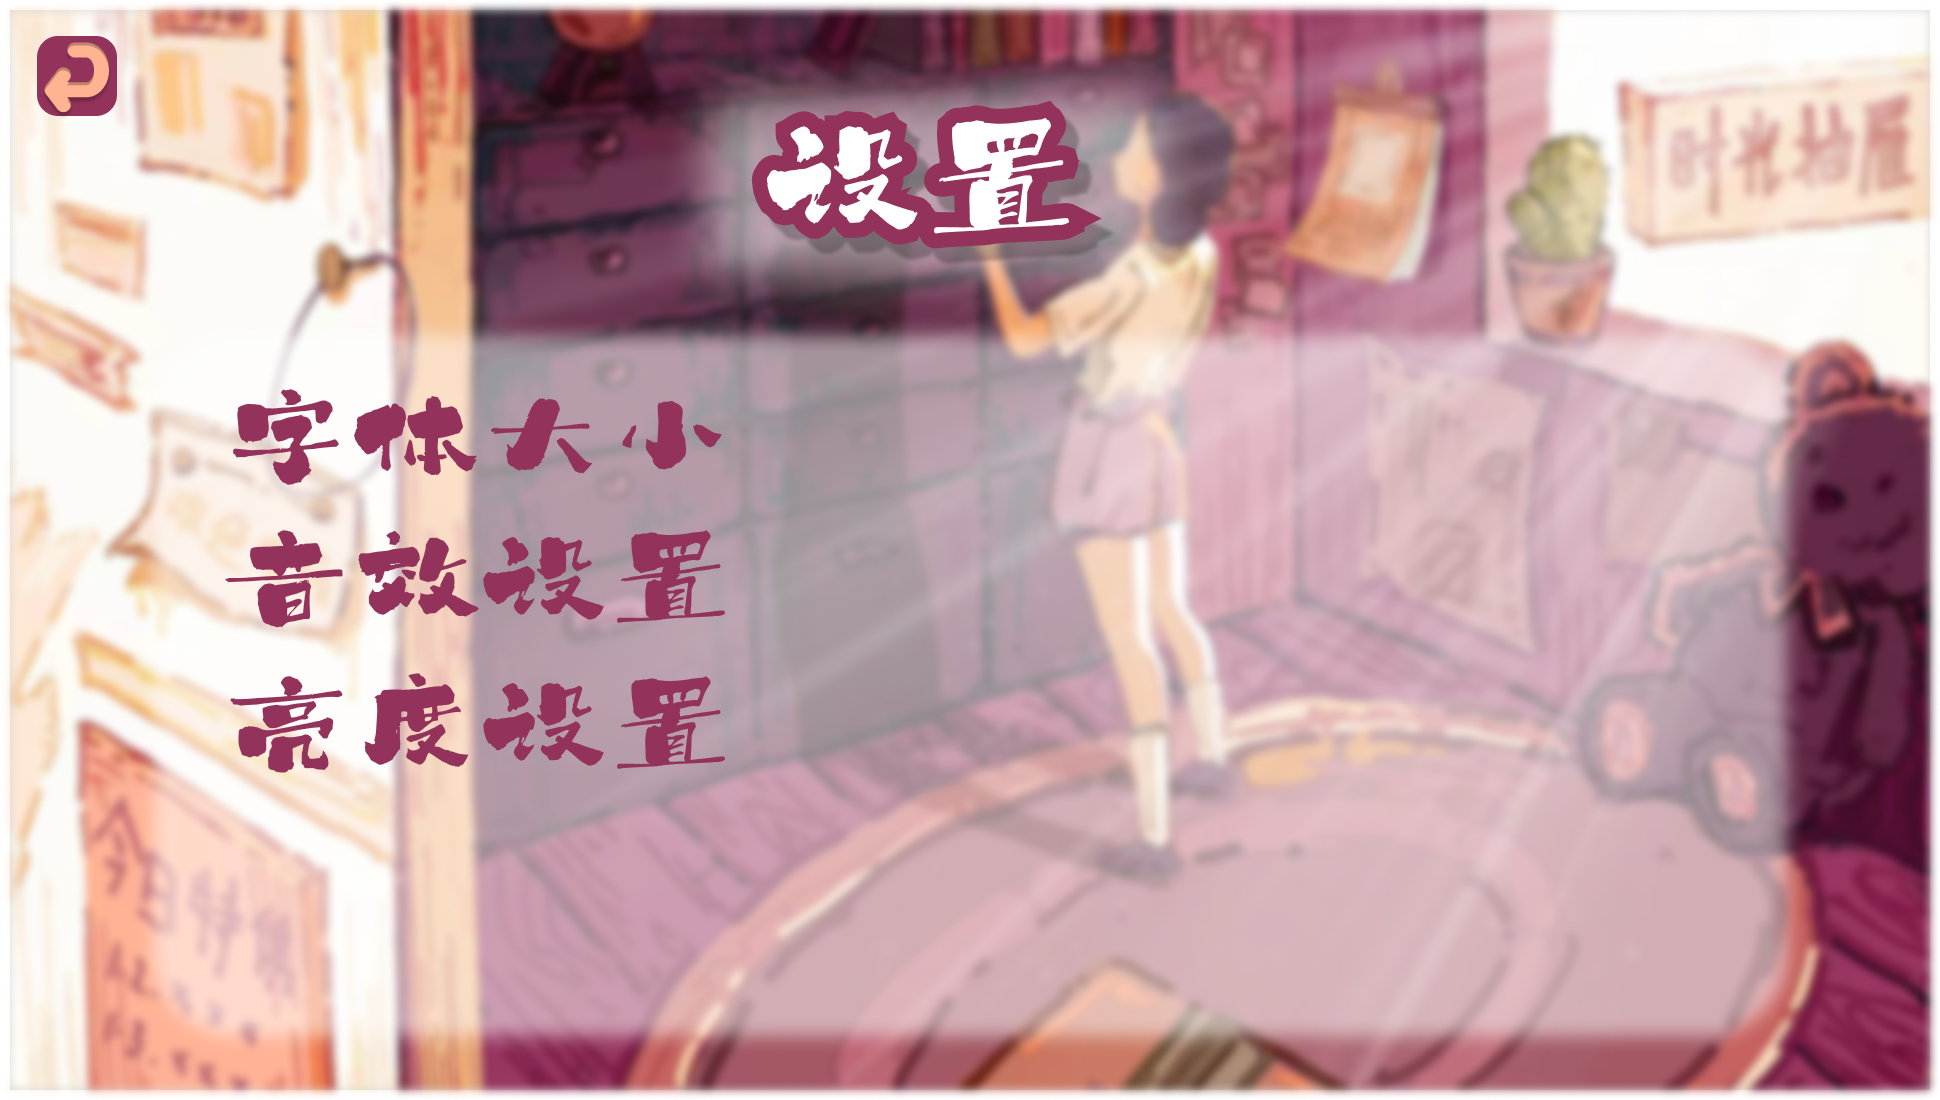
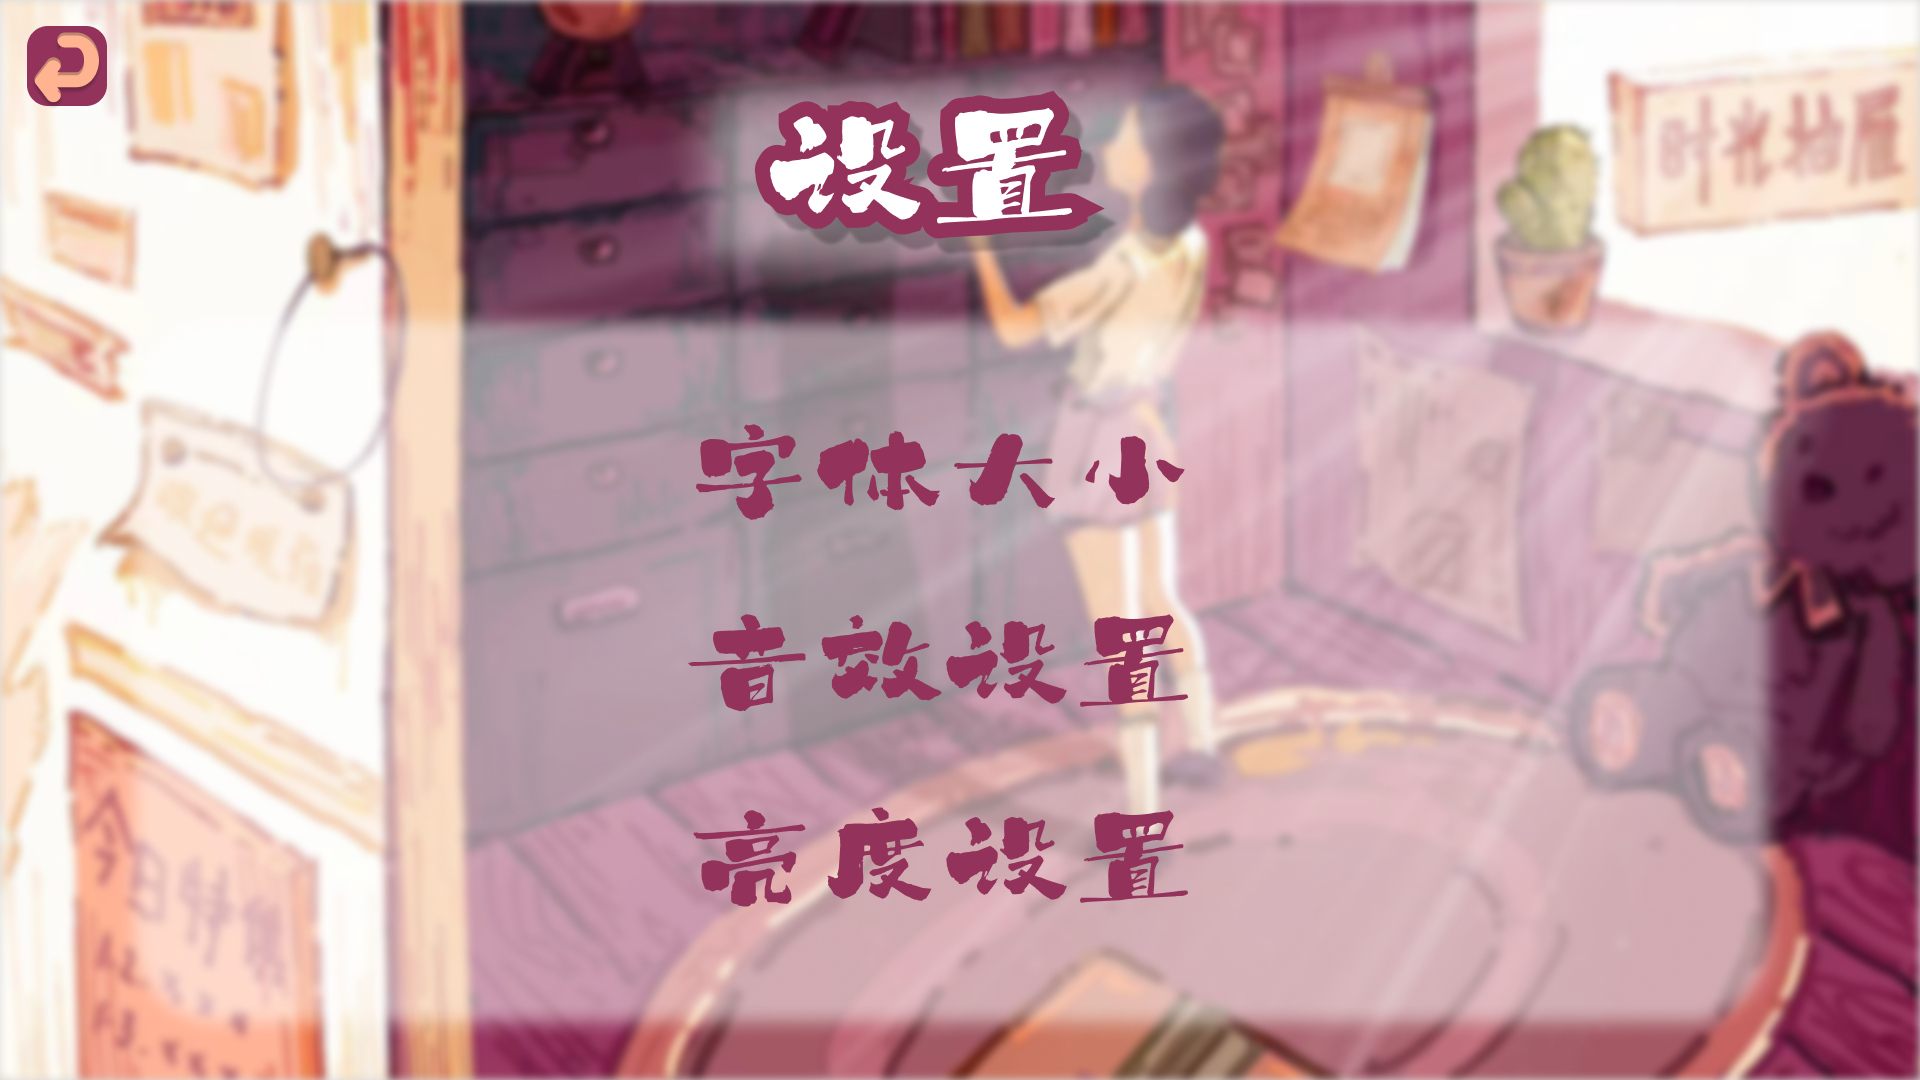
添加多个设置图像，更新设置场景交互逻辑

diff --git a/code/Setting.js b/code/Setting.js
@@ -7,20 +7,62 @@ export default class Menu extends Phaser.Scene {
     preload() {
         this.add.image(0, 0, 'setting').setOrigin(0, 0);
         //ui
-        this.add.image(0, 0, 'ui').setOrigin(0, 0);
+        // this.add.image(0, 0, 'ui').setOrigin(0, 0);
         // console.log('add ui');
-        const ui1 = this.add.zone(26, 10, 80, 80).setOrigin(0, 0).setInteractive();//返回
-        const ui2 = this.add.zone(816, 0, 288, 109).setOrigin(0, 0).setInteractive();//主菜单
-        const ui3 = this.add.zone(1815, 10, 80, 80).setOrigin(0, 0).setInteractive();//设置
+        const ui1 = this.add.zone(26, 25, 80, 80).setOrigin(0, 0).setInteractive();//返回
 
+        // const graphics = this.add.graphics();
+        // graphics.lineStyle(2, 0xff0000);
+        // graphics.strokeRect(ui1.x, ui1.y, ui1.width, ui1.height);
         ui1.on('pointerdown', () => {
             this.scene.start('Menu');
         });
-        ui2.on('pointerdown', () => {
-            this.scene.start('Menu');
+        const zon1 = this.add.zone(684, 414, 509, 101).setOrigin(0, 0).setInteractive();
+        const zon2 = this.add.zone(684, 616, 509, 101).setOrigin(0, 0).setInteractive();
+        const zon3 = this.add.zone(684, 808, 509, 101).setOrigin(0, 0).setInteractive();
+        // const graphics = this.add.graphics();
+        // graphics.lineStyle(2, 0xff0000);
+        // graphics.strokeRect(zon1.x, zon1.y, zon1.width, zon1.height);
+        // graphics.strokeRect(zon2.x, zon2.y, zon2.width, zon2.height);
+        // graphics.strokeRect(zon3.x, zon3.y, zon3.width, zon3.height);
+        zon1.on('pointerdown', () => {
+            this.add.image(0, 0, 'setting3').setOrigin(0, 0);
+            zon1.removeInteractive();
+            zon2.removeInteractive();
+            zon3.removeInteractive();
+            ui1.removeInteractive();
+            this.time.delayedCall(0, () => {
+                ui1.setInteractive();
+                ui1.on('pointerdown', () => {
+                    this.scene.start('Setting');
+                });
+            });
         });
-        ui3.on('pointerdown', () => {
-            this.scene.start('Setting');
+        zon2.on('pointerdown', () => {
+            this.add.image(0, 0, 'setting2').setOrigin(0, 0);
+            zon1.removeInteractive();
+            zon2.removeInteractive();
+            zon3.removeInteractive();
+            ui1.removeInteractive();
+            this.time.delayedCall(0, () => {
+                ui1.setInteractive();
+                ui1.on('pointerdown', () => {
+                    this.scene.start('Setting');
+                });
+            });
+        });
+        zon3.on('pointerdown', () => {
+            this.add.image(0, 0, 'setting1').setOrigin(0, 0);
+            zon1.removeInteractive();
+            zon2.removeInteractive();
+            zon3.removeInteractive();
+            ui1.removeInteractive();
+            this.time.delayedCall(0, () => {
+                ui1.setInteractive();
+                ui1.on('pointerdown', () => {
+                    this.scene.start('Setting');
+                });
+            });
         });
     }
 }

diff --git a/code/Start.js b/code/Start.js
@@ -14,6 +14,9 @@ export default class Start extends Phaser.Scene {
         this.load.image('dhk', 'images/dhk.png');//对话框
 
         this.load.image('setting', 'images/setting.png');//设置
+        this.load.image('setting1', 'images/setting1.png');//设置1
+        this.load.image('setting2', 'images/setting2.png');//设置2
+        this.load.image('setting3', 'images/setting3.png');//设置3
 
         this.load.image('ct', 'images/ct.png');//主界面抽屉
         this.load.image('ct1', 'images/ct1.png');//左上
